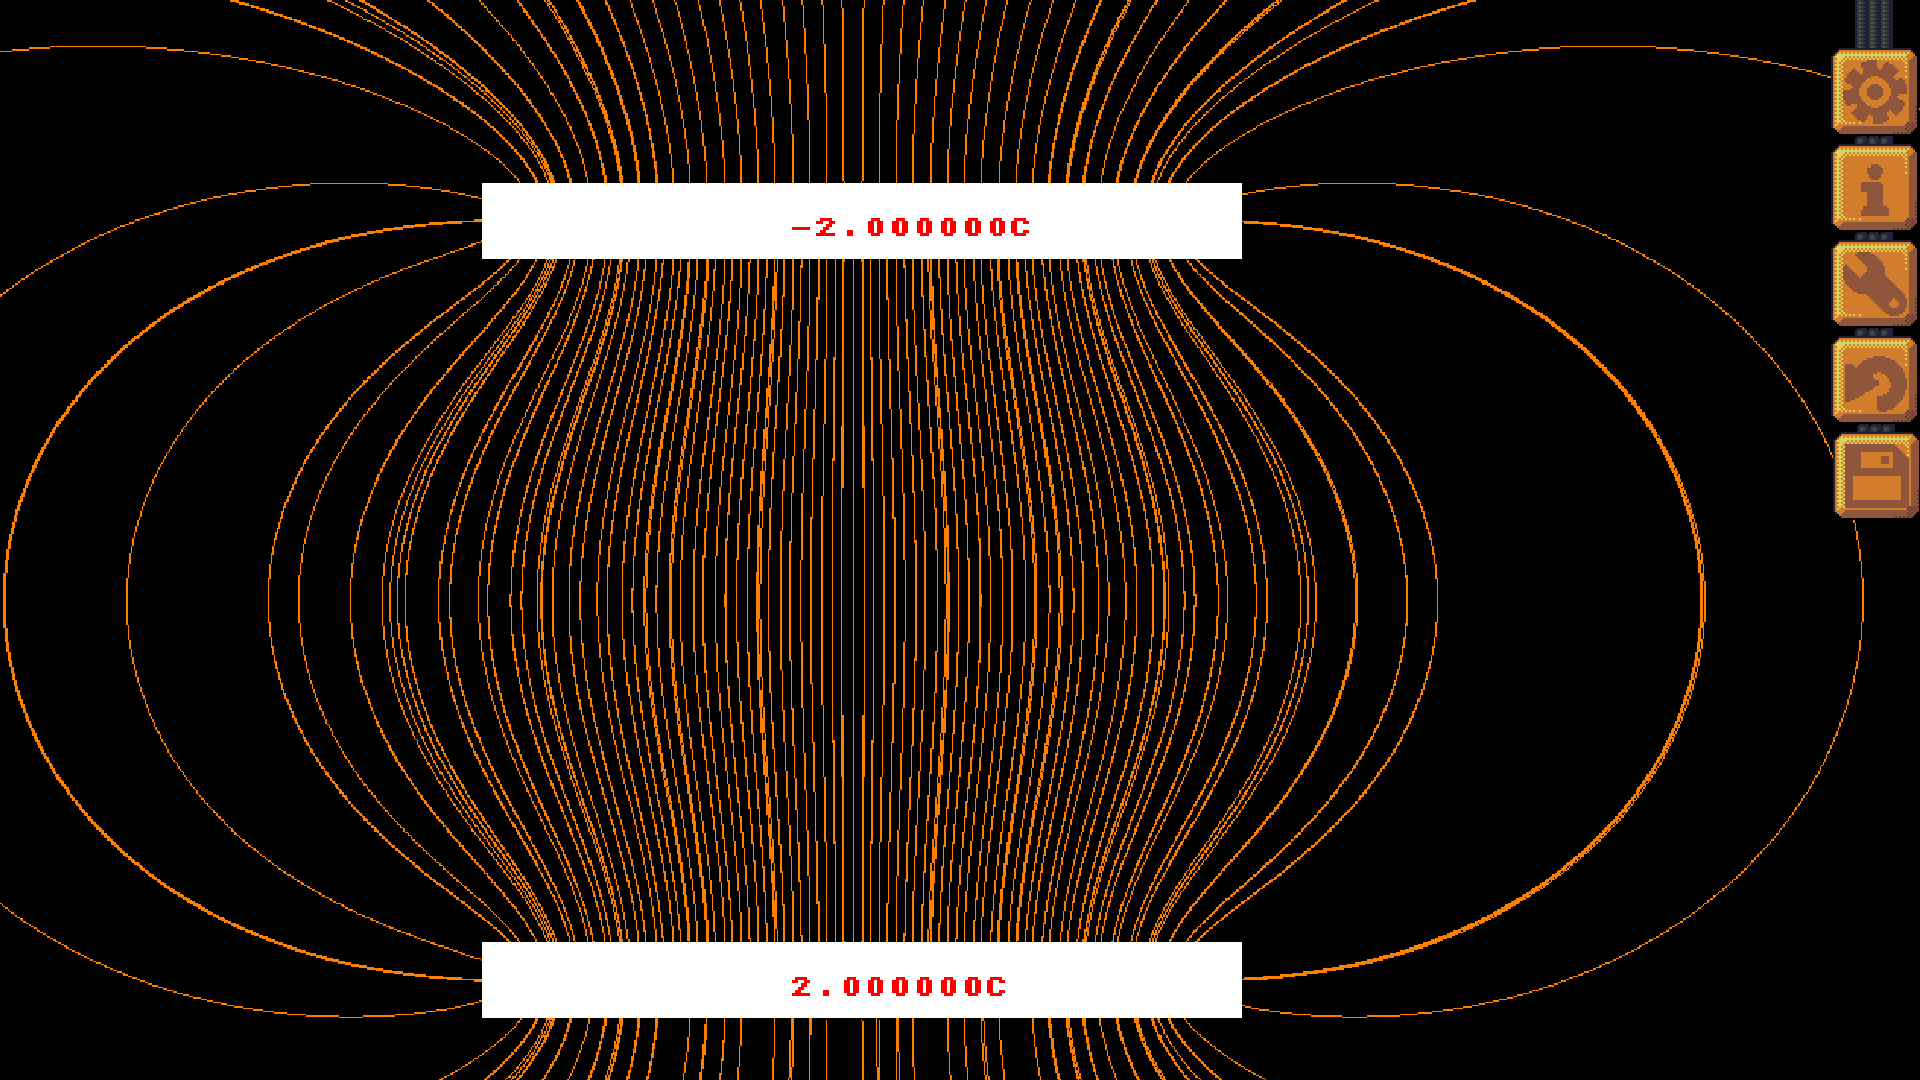
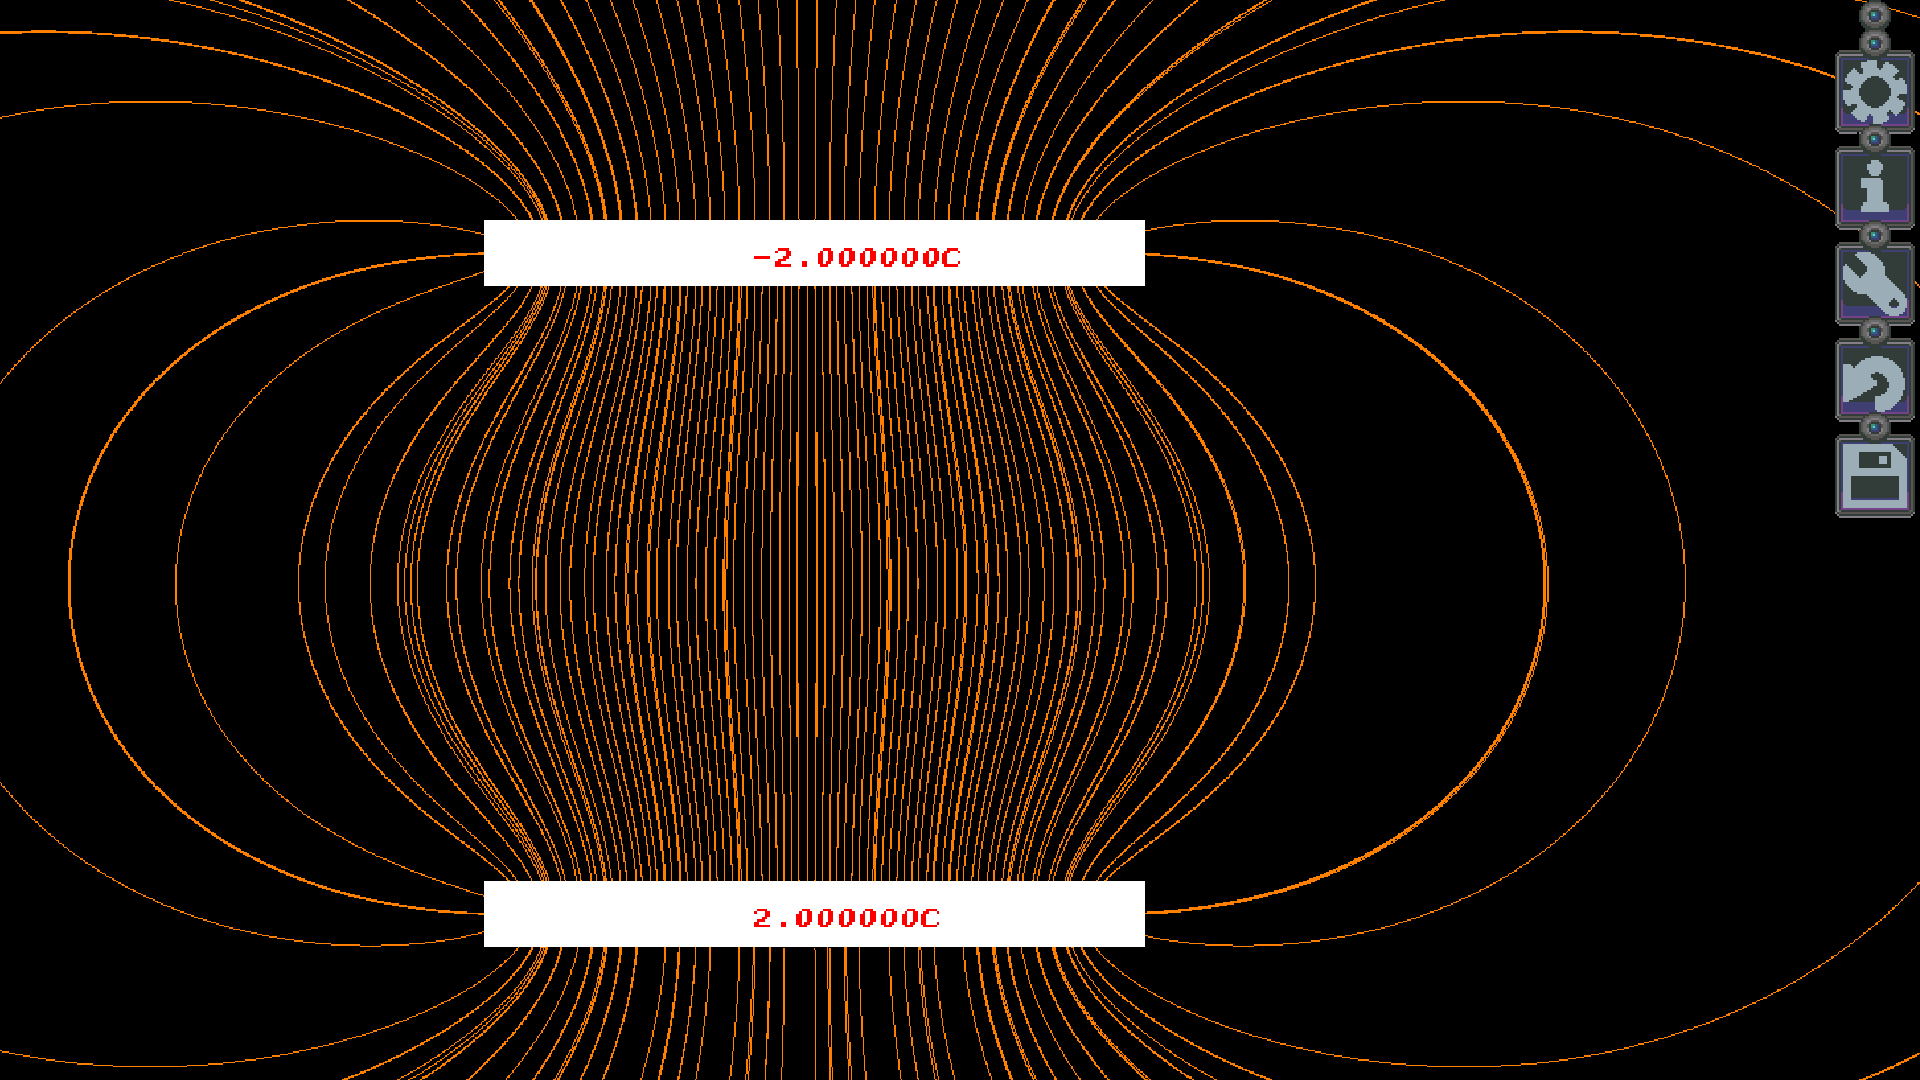
Add credit to all used assets
* Change gui in efelder to get rid of that pesky cc-by-sa license
* Now only CC0 assets are beeing used!

diff --git a/examples/efelder/gui.c b/examples/efelder/gui.c
@@ -132,20 +132,20 @@ static char text_help[GUI_HELP_LINES][36] = //only use 34 letters
 void gui_init()
 {
    //Load assets
-   SLK_RGB_sprite *sheet = SLK_rgb_sprite_load("assets/about.png");
+   SLK_RGB_sprite *sheet = SLK_rgb_sprite_load("assets/gui.png");
    gui_top_right = SLK_rgb_sprite_create(44,323);
-   gui_options = SLK_rgb_sprite_create(293,324);
-   gui_help = SLK_rgb_sprite_create(325,324);
-   gui_help_bar = SLK_rgb_sprite_create(12,17);
-   gui_help_text = SLK_rgb_sprite_create(276,244);
+   gui_options = SLK_rgb_sprite_create(256,280);
+   gui_help = SLK_rgb_sprite_create(288,280);
+   gui_help_bar = SLK_rgb_sprite_create(10,12);
+   gui_help_text = SLK_rgb_sprite_create(274,244);
    button_0_pressed = SLK_rgb_sprite_create(44,44);
    button_1_pressed = SLK_rgb_sprite_create(44,44);
    button_2_pressed = SLK_rgb_sprite_create(44,44);
    button_4_pressed = SLK_rgb_sprite_create(44,44);
    SLK_rgb_sprite_copy_partial(gui_top_right,sheet,0,0,229,64,44,323);
-   SLK_rgb_sprite_copy_partial(gui_options,sheet,0,0,317,0,293,324);
-   SLK_rgb_sprite_copy_partial(gui_help,sheet,0,0,610,0,325,324);
-   SLK_rgb_sprite_copy_partial(gui_help_bar,sheet,0,0,273,71,12,17);
+   SLK_rgb_sprite_copy_partial(gui_options,sheet,0,0,317,0,256,280);
+   SLK_rgb_sprite_copy_partial(gui_help,sheet,0,0,610,0,288,280);
+   SLK_rgb_sprite_copy_partial(gui_help_bar,sheet,0,0,273,76,10,12);
    SLK_rgb_sprite_copy_partial(button_0_pressed,sheet,0,0,273,88,44,44);
    SLK_rgb_sprite_copy_partial(button_1_pressed,sheet,0,0,273,136,44,44);
    SLK_rgb_sprite_copy_partial(button_2_pressed,sheet,0,0,273,184,44,44);
@@ -309,9 +309,9 @@ void gui_update()
          {
             int x,y;
             SLK_mouse_get_layer_pos(0,&x,&y);
-            if(x>pos_x+86&&x<pos_x+103)
+            if(x>pos_x+88&&x<pos_x+101)
             {
-               if(y>pos_y+78&&y<pos_y+95) //Button scale minus
+               if(y>pos_y+36&&y<pos_y+49) //Button scale minus
                {
                   gui_scale-=0.1f;
                   int width_l,height_l;
@@ -324,7 +324,7 @@ void gui_update()
                   SLK_draw_rgb_clear();
                   SLK_draw_rgb_set_changed(1);
                }
-               else if(y>pos_y+142&&y<pos_y+159) //Button red minus
+               else if(y>pos_y+100&&y<pos_y+113) //Button red minus
                {
                   background_color.r-=5;
                   SLK_layer_set_current(5);
@@ -332,7 +332,7 @@ void gui_update()
                   SLK_draw_rgb_clear();
                   SLK_draw_rgb_set_changed(1);
                }
-               else if(y>pos_y+174&&y<pos_y+191) //Button green minus
+               else if(y>pos_y+132&&y<pos_y+145) //Button green minus
                {
                   background_color.g-=5;
                   SLK_layer_set_current(5);
@@ -340,7 +340,7 @@ void gui_update()
                   SLK_draw_rgb_clear();
                   SLK_draw_rgb_set_changed(1);
                }
-               else if(y>pos_y+206&&y<pos_y+223) //Button blue minus
+               else if(y>pos_y+164&&y<pos_y+177) //Button blue minus
                {
                   background_color.b-=5;
                   SLK_layer_set_current(5);
@@ -348,18 +348,18 @@ void gui_update()
                   SLK_draw_rgb_clear();
                   SLK_draw_rgb_set_changed(1);
                }
-               else if(y>pos_y+264&&y<pos_y+281) //Button width minus
+               else if(y>pos_y+222&&y<pos_y+235) //Button width minus
                {
                   canvas_width-=100;
                }
-               else if(y>pos_y+296&&y<pos_y+313) //Button height minus
+               else if(y>pos_y+254&&y<pos_y+267) //Button height minus
                {
                   canvas_height-=100;
                }
             }
-            else if(x>pos_x+210&&x<pos_x+227)
+            else if(x>pos_x+212&&x<pos_x+225)
             {
-               if(y>pos_y+78&&y<pos_y+95) //Button scale plus
+               if(y>pos_y+36&&y<pos_y+49) //Button scale plus
                {
                   gui_scale+=0.1f;
                   int width_l,height_l;
@@ -372,7 +372,7 @@ void gui_update()
                   SLK_draw_rgb_clear();
                   SLK_draw_rgb_set_changed(1);
                }
-               else if(y>pos_y+142&&y<pos_y+159) //Button red plus
+               else if(y>pos_y+100&&y<pos_y+113) //Button red plus
                {
                   background_color.r+=5;
                   SLK_layer_set_current(5);
@@ -380,7 +380,7 @@ void gui_update()
                   SLK_draw_rgb_clear();
                   SLK_draw_rgb_set_changed(1);
                }
-               else if(y>pos_y+174&&y<pos_y+191) //Button green plus
+               else if(y>pos_y+132&&y<pos_y+145) //Button green plus
                {
                   background_color.g+=5;
                   SLK_layer_set_current(5);
@@ -388,7 +388,7 @@ void gui_update()
                   SLK_draw_rgb_clear();
                   SLK_draw_rgb_set_changed(1);
                }
-               else if(y>pos_y+206&&y<pos_y+223) //Button blue plus
+               else if(y>pos_y+164&&y<pos_y+177) //Button blue plus
                {
                   background_color.b+=5;
                   SLK_layer_set_current(5);
@@ -396,18 +396,18 @@ void gui_update()
                   SLK_draw_rgb_clear();
                   SLK_draw_rgb_set_changed(1);
                }
-               else if(y>pos_y+264&&y<pos_y+281) //Button width plus
+               else if(y>pos_y+222&&y<pos_y+235) //Button width plus
                {
                   canvas_width+=100;
                }
-               else if(y>pos_y+296&&y<pos_y+313) //Button height plus
+               else if(y>pos_y+254&&y<pos_y+267) //Button height plus
                {
                   canvas_height+=100;
                }
             }
             
             //Button close
-            if(x>pos_x+245&&x<pos_x+286&&y>pos_y+8&&y<pos_y+56)
+            if(x>pos_x+237&&x<pos_x+250&&y>pos_y+6&&y<pos_y+19)
             {
                gui_mode = 0; 
                SLK_layer_set_current(0);
@@ -426,7 +426,7 @@ void gui_update()
          {
             int x,y;
             SLK_mouse_get_layer_pos(0,&x,&y);
-            if(x>pos_x+277&&x<pos_x+317&&y>pos_y+8&&y<pos_y+56)
+            if(x>pos_x+269&&x<pos_x+282&&y>pos_y+6&&y<pos_y+19)
             {
                gui_mode = 0; 
                SLK_layer_set_current(0);
@@ -553,17 +553,17 @@ void gui_draw()
          SLK_draw_rgb_sprite(gui_options,pos_x,pos_y);
          char temp_str[256] = "";
          sprintf(temp_str,"%03f",gui_scale);
-         SLK_draw_rgb_string(pos_x+128,pos_y+83,1,temp_str,SLK_color_create(203,219,252,255));
+         SLK_draw_rgb_string(pos_x+124,pos_y+39,1,temp_str,SLK_color_create(203,219,252,255));
          sprintf(temp_str,"%03d",background_color.r);
-         SLK_draw_rgb_string(pos_x+144,pos_y+147,1,temp_str,SLK_color_create(203,219,252,255));
+         SLK_draw_rgb_string(pos_x+144,pos_y+103,1,temp_str,SLK_color_create(203,219,252,255));
          sprintf(temp_str,"%03d",background_color.g);
-         SLK_draw_rgb_string(pos_x+144,pos_y+179,1,temp_str,SLK_color_create(203,219,252,255));
+         SLK_draw_rgb_string(pos_x+144,pos_y+135,1,temp_str,SLK_color_create(203,219,252,255));
          sprintf(temp_str,"%03d",background_color.b);
-         SLK_draw_rgb_string(pos_x+144,pos_y+211,1,temp_str,SLK_color_create(203,219,252,255));
+         SLK_draw_rgb_string(pos_x+144,pos_y+167,1,temp_str,SLK_color_create(203,219,252,255));
          sprintf(temp_str,"%05d",canvas_width);
-         SLK_draw_rgb_string(pos_x+136,pos_y+269,1,temp_str,SLK_color_create(203,219,252,255));
+         SLK_draw_rgb_string(pos_x+136,pos_y+225,1,temp_str,SLK_color_create(203,219,252,255));
          sprintf(temp_str,"%05d",canvas_height);
-         SLK_draw_rgb_string(pos_x+136,pos_y+301,1,temp_str,SLK_color_create(203,219,252,255));
+         SLK_draw_rgb_string(pos_x+136,pos_y+257,1,temp_str,SLK_color_create(203,219,252,255));
       }
       break;
   case 3:
@@ -571,9 +571,7 @@ void gui_draw()
          int pos_x = (width-gui_help->width)/2;
          int pos_y = (height-gui_help->height)/2;
          SLK_draw_rgb_sprite(gui_help,pos_x,pos_y);
-         SLK_draw_rgb_sprite(gui_help_text,pos_x+6,pos_y+74);
-         int y = (int)(((float)(scroll_y)/(float)(scroll_max))*178.0f);
-         SLK_draw_rgb_sprite(gui_help_bar,289+pos_x,pos_y+y+99);
+         SLK_draw_rgb_sprite(gui_help_text,pos_x+7,pos_y+28);
       }
       break;
    }

diff --git a/examples/efelder/main.c b/examples/efelder/main.c
@@ -72,7 +72,7 @@ int main(int argc, char *argv[])
    SLK_layer_activate(5,1);
    SLK_layer_set_dynamic(5,1);
 
-   SLK_draw_rgb_load_font("../../data/fonts/cursive1.png");
+   SLK_draw_rgb_load_font("../../data/fonts/cursive2.png");
 
    gui_init();
 

diff --git a/data/README.md b/data/README.md
@@ -6,9 +6,38 @@ Here is a list of all assets used by SoftLK and its examples.
 
 Not all fonts listed here are actively used in the examples, but they can be found in the data/fonts directory and used by you.
 
-|File name|Image|License|Source|
+|File name|Image|License|Source/Author|
 |---|---|---|---|
-|techno.png|![techno](fonts/techno.png)|CC0/public domain|[usr_share](https://opengameart.org/content/new-original-grafx2-font-collection)
-|solar.png|![solar](fonts/solar.png)|CC0/public domain|[usr_share](https://opengameart.org/content/new-original-grafx2-font-collection)
-|cursive1.png|![cursive1](fonts/cursive1.png)|CC0/public domain|[usr_share](https://opengameart.org/content/new-original-grafx2-font-collection)
-|cursive2.png|![cursive2](fonts/cursive2.png)|CC0/public domain|[usr_share](https://opengameart.org/content/new-original-grafx2-font-collection)
+|techno.png|![techno](fonts/techno.png)|CC0/public domain|[usr_share](https://opengameart.org/content/new-original-grafx2-font-collection)|
+|solar.png|![solar](fonts/solar.png)|CC0/public domain|[usr_share](https://opengameart.org/content/new-original-grafx2-font-collection)|
+|cursive1.png|![cursive1](fonts/cursive1.png)|CC0/public domain|[usr_share](https://opengameart.org/content/new-original-grafx2-font-collection)|
+|cursive2.png|![cursive2](fonts/cursive2.png)|CC0/public domain|[usr_share](https://opengameart.org/content/new-original-grafx2-font-collection)|
+
+------------
+## Assets used in examples
+
+
+### Resize
+
+|File name|License|Source/Author|
+|---|---|---|
+|assets/image.slk|CC0/public domain|Captain4LK|
+
+### Performance
+
+|File name|License|Source/Author|
+|---|---|---|
+|assets/gui_00.png|CC0/public domain|[0x72](https://0x72.itch.io/dungeonui)|
+|assets/gui_01.png|CC0/public domain|[0x72](https://0x72.itch.io/dungeonui)|
+|assets/gui_02.png|CC0/public domain|[0x72](https://0x72.itch.io/dungeontileset-ii)|
+|assets/gui_03.png|CC0/public domain|[0x72](https://0x72.itch.io/dungeontileset-ii)|
+|assets/sprites.*|CC0/public domain|[0x72](https://0x72.itch.io/pixeldudesmaker)|
+
+### Efelder
+
+|File name|License|Source/Author|
+|---|---|---|
+|assets/about.png [GUI]|CC0/public domain|[Buch](https://opengameart.org/content/unfinished-user-interfaces)|
+|assets/about.png [FONT]|CC0/public domain|[Buch](https://opengameart.org/content/three-little-bitmap-fonts)|
+
+-----
